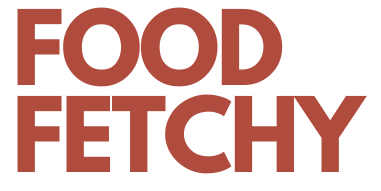
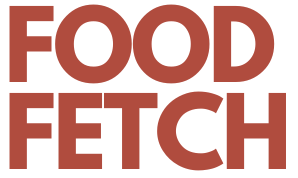
Push code modifications.

diff --git a/client/src/pages/Inventory.js b/client/src/pages/Inventory.js
@@ -2,7 +2,23 @@ import React, { useState, useContext, useEffect } from 'react';
 import { ItemsContext } from '../components/context/items';
 import { UserContext } from '../components/context/user';
 import { useNavigate } from 'react-router-dom';
-import { Card, Container, StyledTable, SectionHeader, EditButton, DeleteButton, WelcomeMessage,  StyledFormContainer, StyledFormInput, StyledFormSelect, Header, LogoutButton, BreadcrumbContainer, BreadcrumbLink, BreadcrumbSeparator } from '../styles/StyledComponents';
+import {
+  Card,
+  Container,
+  StyledTable,
+  SectionHeader,
+  EditButton,
+  DeleteButton,
+  WelcomeMessage,
+  StyledFormContainer,
+  StyledFormInput,
+  StyledFormSelect,
+  Header,
+  LogoutButton,
+  BreadcrumbContainer,
+  BreadcrumbLink,
+  BreadcrumbSeparator
+} from '../styles/StyledComponents';
 
 function Inventory() {
   const { items, categories, fetchUserItems, updateItem, deleteItem } = useContext(ItemsContext);
@@ -10,6 +26,7 @@ function Inventory() {
   const navigate = useNavigate();
   const [isEditing, setIsEditing] = useState(false);
   const [editItem, setEditItem] = useState(null);
+  const [validationErrors, setValidationErrors] = useState({});
 
   useEffect(() => {
     fetchUserItems();
@@ -26,17 +43,38 @@ function Inventory() {
       ...prevState,
       [name]: name === 'item_category_id' ? parseInt(value, 10) : value
     }));
+    setValidationErrors({ ...validationErrors, [name]: '' });
+  };
+
+  const validateItem = (item) => {
+    let errors = {};
+    if (!item.name) errors.name = 'Name is required';
+    if (item.quantity <= 0) errors.quantity = 'Quantity must be positive';
+    if (!item.allergens) errors.allergens = 'Allergens info is required';
+    if (!item.addtional_info) errors.addtional_info = 'Additional information is required';
+    if (!item.available_until) errors.available_until = 'Available until date is required';
+    if (!item.available_until_time) errors.available_until_time = 'Available until time is required';
+    if (item.item_category_id === null || item.item_category_id === undefined) errors.item_category_id = 'Category must be selected';
+    // Add more validations as needed
+
+    return errors;
+  };
+
+  const handleUpdate = () => {
+    const errors = validateItem(editItem);
+    if (Object.keys(errors).length === 0) {
+      updateItem(editItem);
+      setIsEditing(false);
+      setEditItem(null);
+      setValidationErrors({});
+    } else {
+      setValidationErrors(errors);
+    }
   };
 
   const handleEdit = (item) => {
     setIsEditing(true);
     setEditItem({ ...item });
-  };
-
-  const handleUpdate = () => {
-    updateItem(editItem);
-    setIsEditing(false);
-    setEditItem(null);
   };
 
   const handleDelete = (itemId) => {
@@ -51,81 +89,109 @@ function Inventory() {
   return (
     <Container>
       <Header>
-        {user && user.business_name && <WelcomeMessage>Welcome, {user.business_name}!</WelcomeMessage>} 
+        {user && user.business_name && <WelcomeMessage>Welcome, {user.business_name}!</WelcomeMessage>}
         <BreadcrumbContainer>
           <BreadcrumbLink to="/food-business">Services</BreadcrumbLink>
           <BreadcrumbSeparator>/</BreadcrumbSeparator>
           <BreadcrumbLink to="/inventory">Inventory</BreadcrumbLink>
-      </BreadcrumbContainer>
-        <LogoutButton onClick={logoutUser}>Log Out</LogoutButton> 
+        </BreadcrumbContainer>
+        <LogoutButton onClick={logoutUser}>Log Out</LogoutButton>
       </Header>
 
       {isEditing ? (
         <Card>
           <SectionHeader>Edit Food</SectionHeader>
           <StyledFormContainer>
-            <StyledFormInput type="text" name="name" placeholder="Name" value={editItem.name} onChange={handleChange} />
-            <StyledFormInput type="number" name="quantity" placeholder="Quantity" value={editItem.quantity} onChange={handleChange} />
-            <StyledFormSelect name="item_category_id" value={editItem.item_category_id} onChange={handleChange}>
+            <StyledFormInput 
+              type="text" 
+              name="name" 
+              placeholder="Name" 
+              value={editItem.name} 
+              onChange={handleChange} 
+            />
+            {validationErrors.name && <div className="error-message">{validationErrors.name}</div>}
+            <StyledFormInput 
+              type="number" 
+              name="quantity" 
+              placeholder="Quantity" 
+              value={editItem.quantity} 
+              onChange={handleChange} 
+            />
+            {validationErrors.quantity && <div className="error-message">{validationErrors.quantity}</div>}
+            <StyledFormSelect 
+              name="item_category_id" 
+              value={editItem.item_category_id} 
+              onChange={handleChange}
+            >
               {categories.map(category => (
                 <option key={category.id} value={category.id}>{category.category}</option>
               ))}
             </StyledFormSelect>
-            <StyledFormInput type="text" name="allergens" placeholder="Allergens" value={editItem.allergens} onChange={handleChange} />
-            <StyledFormInput type="text" name="addtional_info" placeholder="Additional Information" value={editItem.addtional_info} onChange={handleChange} />
+            <StyledFormInput 
+              type="text" 
+              name="allergens" 
+              placeholder="Allergens" 
+              value={editItem.allergens} 
+              onChange={handleChange} 
+            />
+            <StyledFormInput 
+              type="text" 
+              name="addtional_info" 
+              placeholder="Additional Information" 
+              value={editItem.addtional_info} 
+              onChange={handleChange} 
+            />
             <StyledFormInput
               type="date"
               name="available_until"
               placeholder="YYYY-MM-DD"
               value={editItem.available_until || ''}
-              onChange={handleChange} 
+              onChange={handleChange}
             />
             <StyledFormInput
               type="text"
               name="available_until_time"
               placeholder="HH:mm"
               value={editItem.available_until_time || ''}
-              onChange={handleChange} 
+              onChange={handleChange}
             />
-          </StyledFormContainer>
-          <br />
-         
+            </StyledFormContainer>
+            <br />
             <EditButton onClick={handleUpdate}>Save Changes</EditButton>
             <DeleteButton onClick={() => setIsEditing(false)}>Cancel</DeleteButton>
-          
         </Card>
       ) : (
         <>
-        <SectionHeader>Food Inventory</SectionHeader>
-        <StyledTable>
-          <thead>
-            <tr>
-              <th>Name</th>
-              <th>Quantity</th>
-              <th>Category</th>
-              <th>Allergens</th>
-              <th>Additional Info</th>
-              <th>Available Until</th>
-              <th>Actions</th>
-            </tr>
-          </thead>
-          <tbody>
-            {Array.isArray(items) && items.map((item) => (
-              <tr key={item.id}>
-                <td style={{ textAlign: "center" }}>{item.name}</td>
-                <td style={{ textAlign: "center" }}>{item.quantity}</td>
-                <td style={{ textAlign: "center" }}>{getCategoryName(item.item_category_id)}</td>
-                <td style={{ textAlign: "center" }}>{item.allergens}</td>
-                <td style={{ textAlign: "center" }}>{item.addtional_info}</td>
-                <td style={{ textAlign: "center" }}>{item.available_until} {item.available_until_time}</td>
-                <td>
-                  <EditButton onClick={() => handleEdit(item)}>Edit</EditButton>
-                  <DeleteButton onClick={() => handleDelete(item.id)}>Delete</DeleteButton>
-                </td>
+          <SectionHeader>Food Inventory</SectionHeader>
+          <StyledTable>
+            <thead>
+              <tr>
+                <th>Name</th>
+                <th>Quantity</th>
+                <th>Category</th>
+                <th>Allergens</th>
+                <th>Additional Info</th>
+                <th>Available Until</th>
+                <th>Actions</th>
               </tr>
-            ))}
-          </tbody>
-        </StyledTable>
+            </thead>
+            <tbody>
+              {Array.isArray(items) && items.map((item) => (
+                <tr key={item.id}>
+                  <td style={{ textAlign: "center" }}>{item.name}</td>
+                  <td style={{ textAlign: "center" }}>{item.quantity}</td>
+                  <td style={{ textAlign: "center" }}>{getCategoryName(item.item_category_id)}</td>
+                  <td style={{ textAlign: "center" }}>{item.allergens}</td>
+                  <td style={{ textAlign: "center" }}>{item.addtional_info}</td>
+                  <td style={{ textAlign: "center" }}>{item.available_until} {item.available_until_time}</td>
+                  <td>
+                    <EditButton onClick={() => handleEdit(item)}>Edit</EditButton>
+                    <DeleteButton onClick={() => handleDelete(item.id)}>Delete</DeleteButton>
+                  </td>
+                </tr>
+              ))}
+            </tbody>
+          </StyledTable>
         </>
       )}
     </Container>

diff --git a/client/public/index.html b/client/public/index.html
@@ -24,7 +24,7 @@
       work correctly both with client-side routing and a non-root public URL.
       Learn how to configure a non-root public URL by running `npm run build`.
     -->
-    <title>Food Fetchy</title>
+    <title>Food Fetch</title>
   </head>
   <body>
     <noscript>You need to enable JavaScript to run this app.</noscript>

diff --git a/client/src/index.css b/client/src/index.css
@@ -15,3 +15,10 @@ code {
 .icon {
   margin-right: 16px; 
 }
+
+.error-message {
+  color: red;
+  margin-top: 5px;
+  font-size: 0.8em;
+  font-weight: bold;
+}
